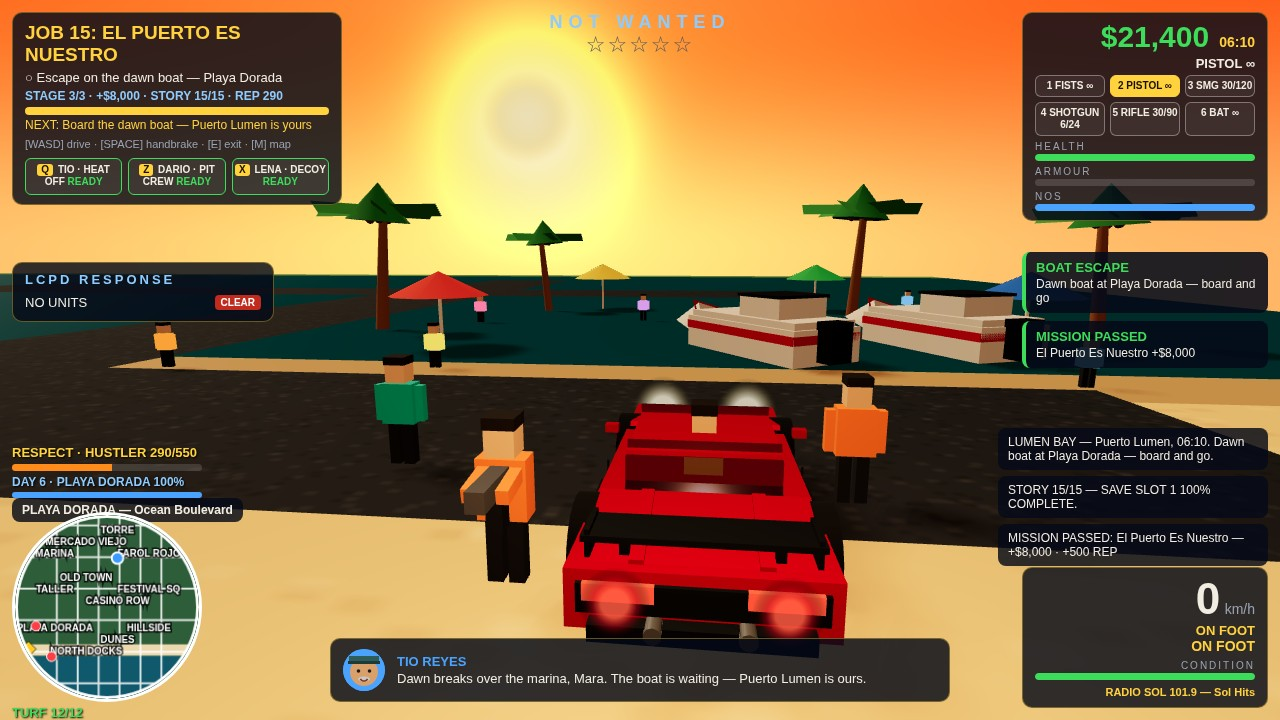
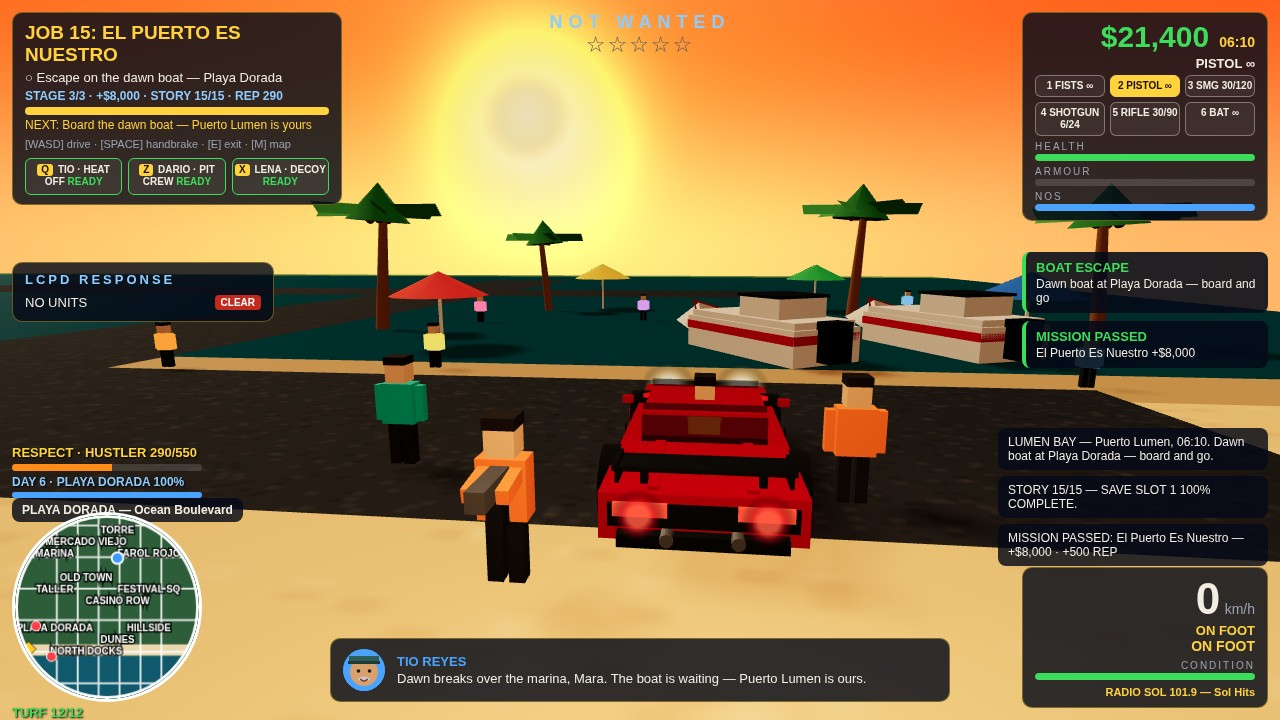
Lumen Bay r32: shot 4 hero Comet 2 m forward so its rear clears the dialogue bar

Changed region(s): [[0.4375, 0.4889, 0.6875, 0.9167]]

diff --git a/game/src/shots.js b/game/src/shots.js
@@ -440,7 +440,8 @@ function makeBeachPalm(lean) {
 // umbrellas and small boats behind. No title screen, the full gameplay
 // HUD stays up (mission panel, wanted, money, police, toasts, event log,
 // minimap, dialogue bar, speed panel). The pinned cash stays $21,400 so
-// the capture tool's freshness check still passes.
+// the capture tool's freshness check still passes. r32: the hero Comet
+// sits 2 m further forward so its rear clears the dialogue bar.
 // ---------------------------------------------------------------------------
 
 function stageShot4(game) {
@@ -464,8 +465,10 @@ function stageShot4(game) {
   // small boats below stay — they read clearly as boats.
 
   // Hero Comet in the foreground, rear to the camera, nose to the sea.
+  // Parked 2 m further forward (z 237) so its rear bumper clears the
+  // bottom dialogue bar with a visible margin.
   const hero = game.heroCar;
-  hero.position.set(-28, 0, 235);
+  hero.position.set(-28, 0, 237);
   hero.rotation.y = 0;
   hero.visible = true;
 
